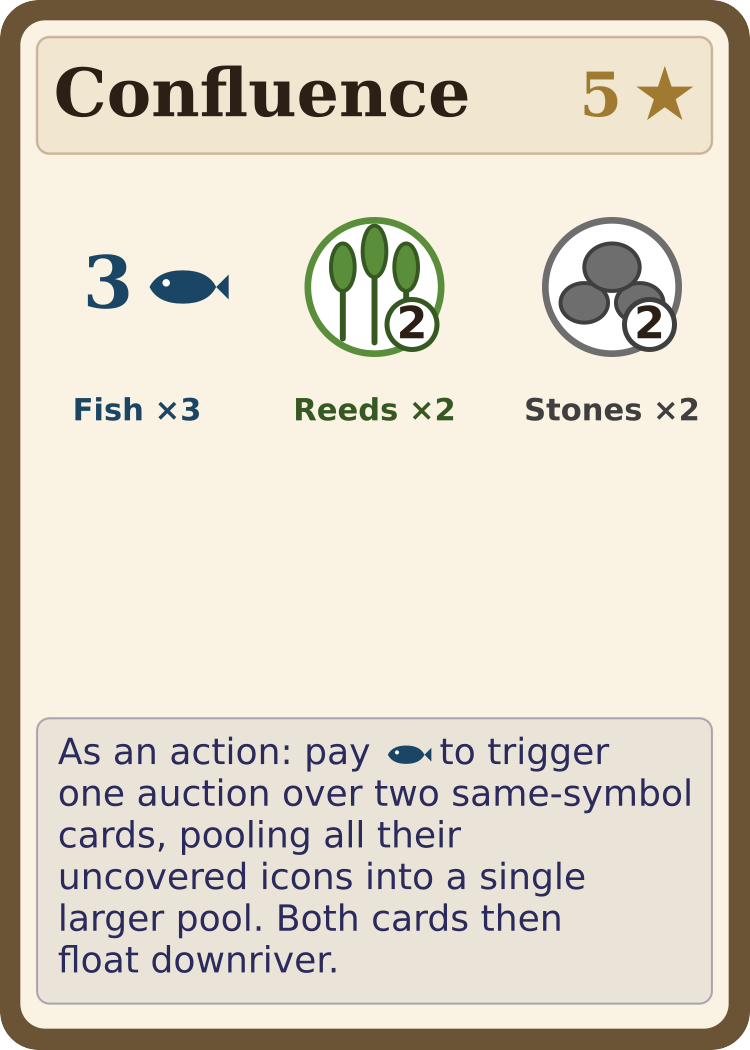
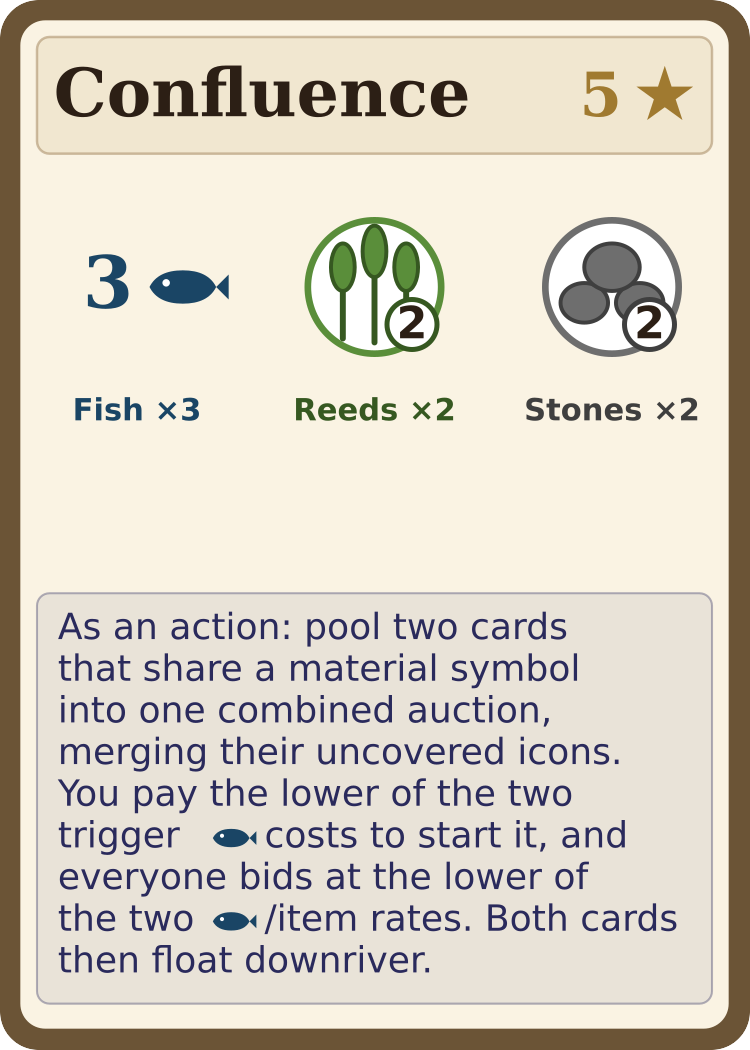
River Bankers: clarify Confluence effect text (min-cost rule), consistent across all impls
The old "the lesser 🐟 cost of the two cards" phrasing was easy to misread.
Reworded so the min-cost rule is unambiguous for BOTH costs: you pay the lower of
the two cards' trigger 🐟 costs to start the combined auction, and everyone bids
at the lower of the two 🐟/item rates.

Reconciled everywhere (were inconsistent — sim omitted the cost clause entirely;
web/BGA shared the old wording):
- sim.js, web/index.html, bga/modules/php/Material.php: identical new effect text.
- graphics/structure-deck/cards.json + regenerated structure-deck/Confluence.png
  (web-res card face used by the web prototype; vendored to LFG).

Rulebook needs no change — it has no Confluence/combined-auction section.

Changed region(s): [[0.0613, 0.579, 0.92, 0.9448], [0.92, 0.6705, 0.9507, 0.701], [0.92, 0.5486, 0.9507, 0.579]]

diff --git a/sim.js b/sim.js
@@ -69,7 +69,7 @@ const BASE_STRUCTURE_TEMPLATES = [
   { name: 'Springwater Pool', cost: { vines: 3, mud: 2 },            time: 3, vp: 5, effect: 'When built: ready all of your spent once-per-game cards.' },
   { name: 'Spring Cascade', cost: { logs: 2, mud: 1 },               time: 1, vp: 3, effect: 'Once per game (flip card): ready one of your other spent once-per-game cards.' },
   { name: 'Trading Post',     cost: { clay: 2, reeds: 2 },             time: 3, vp: 5, effect: 'As an action: pay 1🐟 to recall 1 worker each from 3 different-material cards (drops 3 blanks), then place 2 free workers from supply onto uncovered icons of one card.' },
-  { name: 'Confluence',       cost: { reeds: 2, stones: 2 },            time: 3, vp: 5, effect: 'As an action: pay 🐟 to trigger one auction over two same-symbol cards, pooling all their uncovered icons into a single larger pool. Both cards then float downriver.' },
+  { name: 'Confluence',       cost: { reeds: 2, stones: 2 },            time: 3, vp: 5, effect: 'As an action: pool two cards that share a material symbol into one combined auction, merging their uncovered icons. You pay the lower of the two trigger 🐟 costs to start it, and everyone bids at the lower of the two 🐟/item rates. Both cards then float downriver.' },
 
   // Species starter structures (asymmetric play). Each player
   // drafts 1 of their 3 species cards at setup; picked card is pre-built in

diff --git a/web/index.html b/web/index.html
@@ -1872,7 +1872,7 @@ const STRUCTURE_TEMPLATES = [
   { name: 'Springwater Pool', cost: { vines: 3, mud: 2 },            time: 3, vp: 5, effect: 'When built: ready all of your spent once-per-game cards.' },
   { name: 'Spring Cascade', cost: { logs: 2, mud: 1 },               time: 1, vp: 3, effect: 'Once per game (flip card): ready one of your other spent once-per-game cards.' },
   { name: 'Trading Post',     cost: { clay: 2, reeds: 2 },             time: 3, vp: 5, effect: 'As an action: pay 1🐟 to recall 1 worker each from 3 different-material cards (drops 3 blanks), then place 2 free workers from supply onto uncovered icons of one card.' },
-  { name: 'Confluence',       cost: { reeds: 2, stones: 2 },           time: 3, vp: 5, effect: 'As an action: initiate an auction for two cards that share the same material items. Pay the lesser 🐟 cost of the two cards to initiate the auction, and players pay the lesser 🐟/item cost during the auction. Both cards then float downriver.' },
+  { name: 'Confluence',       cost: { reeds: 2, stones: 2 },           time: 3, vp: 5, effect: 'As an action: pool two cards that share a material symbol into one combined auction, merging their uncovered icons. You pay the lower of the two trigger 🐟 costs to start it, and everyone bids at the lower of the two 🐟/item rates. Both cards then float downriver.' },
 
   // Species starter structures (asymmetric play). Each player
   // drafts 1 of their 3 species cards at setup; picked card is pre-built in

diff --git a/bga/modules/php/Material.php b/bga/modules/php/Material.php
@@ -102,7 +102,7 @@ End of game: +3 VP per built structure of yours that uses Mud (max +9).'],
         45 => ['name' => 'Springwater Pool', 'cost' => ['vines' => 3, 'mud' => 2], 'time' => 3, 'vp' => '5', 'effect' => 'When built: ready all of your spent once-per-game cards.'],
         46 => ['name' => 'Spring Cascade', 'cost' => ['logs' => 2, 'mud' => 1], 'time' => 1, 'vp' => '3', 'effect' => 'Once per game (flip card): ready one of your other spent once-per-game cards.'],
         47 => ['name' => 'Trading Post', 'cost' => ['clay' => 2, 'reeds' => 2], 'time' => 3, 'vp' => '5', 'effect' => 'As an action: pay 1🐟 to recall 1 worker each from 3 different-material cards (drops 3 blanks), then place 2 free workers from supply onto uncovered icons of one card.'],
-        48 => ['name' => 'Confluence', 'cost' => ['reeds' => 2, 'stones' => 2], 'time' => 3, 'vp' => '5', 'effect' => 'As an action: initiate an auction for two cards that share the same material items. Pay the lesser 🐟 cost of the two cards to initiate the auction, and players pay the lesser 🐟/item cost during the auction. Both cards then float downriver.'],
+        48 => ['name' => 'Confluence', 'cost' => ['reeds' => 2, 'stones' => 2], 'time' => 3, 'vp' => '5', 'effect' => 'As an action: pool two cards that share a material symbol into one combined auction, merging their uncovered icons. You pay the lower of the two trigger 🐟 costs to start it, and everyone bids at the lower of the two 🐟/item rates. Both cards then float downriver.'],
     ];
 
     // 12 species starter cards (3 per species).